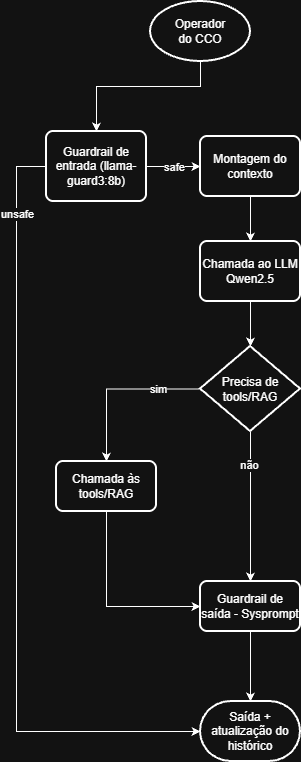
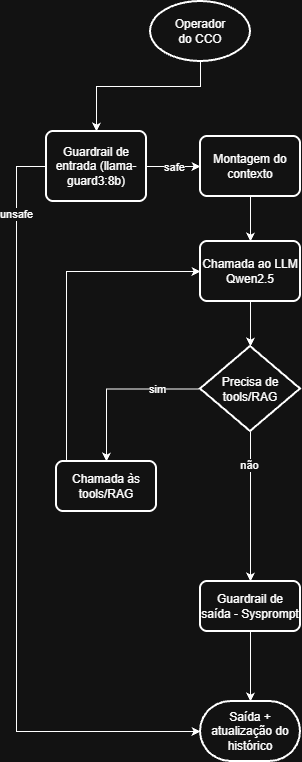
Add: Arquitetura

diff --git a/README.md b/README.md
@@ -46,9 +46,22 @@ Por que escolher o recorte B e não A?: Enquanto o recorte A funciona na identif
 **Frase de recusa:** "Eu não posso atender a esta solicitação pois ela foge do meu escopo de atuação"
 
 ## 5. Arquitetura da solução
-[TO-DO] Detalhas os passos do fluxograma
-
-
+### 1 - Usuário (Operador de CCO)
+O usuário que buscamos atender, colaborador no centro de operações da Motiva. O prompt é enviado via texto livre.
+### 2 - Guardrail de entrada (Llama-guard)
+Um modelo que faz a verificação inicial do prompt do usuário. Caso haja suspeitas de quebra de persona, de privacidade ou de segurança o modelo retorna que o prompt não é seguro.
+### 3 - Montagem do contexto
+O modelo faz a leitura do System Prompt e retoma o histórico da conversa, dados do ChromaDB e infos sobre as tools.
+### 4 - Chamada ao LLM
+Contexto é enviado ao Qwen 2.5:7B com temperatura 0.6 e max_tokens = 2000. Uma temperatura mais baixa visto que o modelo precisa ser objetivo e técnico, para garantir a qualidade das sugestões dadas ao operador.
+### 5 - Decisão de tool
+Ao identificar que o pedido do usuário se encaixa em alguma das tools específicadas, faz o uso delas. Caso não haja informações no contexto para responder ao prompt, o modelo puxa do ChromaDB ou da API do Zabbix.
+### 6 - Execução da tool
+Ao obter as informações chamadas pela tool, fazemos uma nova chamada ao modelo com um novo contexto montado.
+### 7 - Guardrail de saída (System Prompt)
+A verificação de saída está no próprio system prompt, o forçando a não inventar dados e manter-se no escopo do assistente.
+### 8 - Resposta + atualização do histórico
+Após a verificação da resposta, ela é mostrada para o usuário. É gerado um embedding da interação, que é guardado no banco de dados do histórico da conversa.
 ## 6. Stack e justificativa técnica
 ### Comparação de modelos - Llama 3.1 x Qwen 2.5
 
